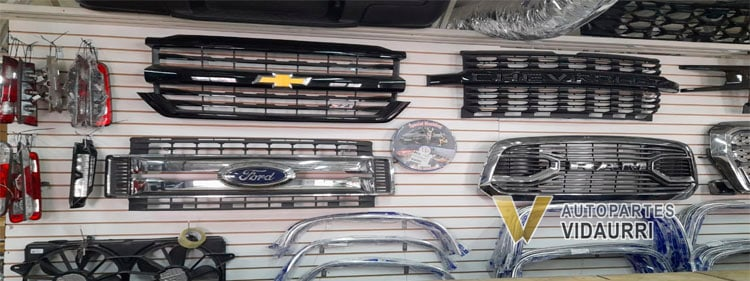
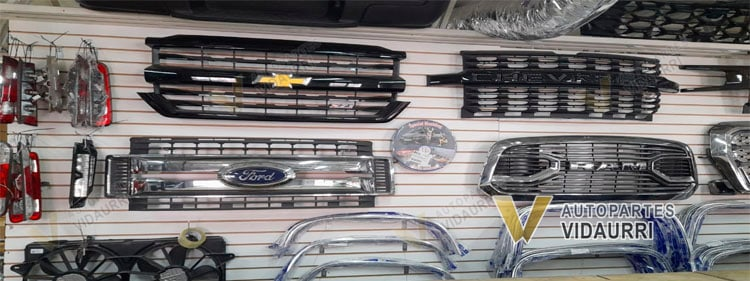
feat: mosaico de marca de agua sobre toda la foto
El sello de esquina solo protegía de la esquina: quien roba una foto la
recorta y listo. Ahora son dos capas con oficios distintos.

- MOSAICO: el lockup repetido en diagonal (-30°) por toda la superficie, al
  16% de opacidad. Es el que hace inservible la foto robada, porque quitarlo
  obliga a borrarlo sobre la mercancía misma, no a recortar un borde.
- ESQUINA inferior derecha: se mantiene con cuerpo (74%), que es la que se
  lee de un vistazo y dice de quién es el negocio.

Detalles que costaron un par de vueltas y quedan anotados en el código:
- El azulejo lleva DOS logos en diagonal, no uno. Con uno solo el patrón sale
  en rejilla alineada y deja pasillos limpios entre columnas — justo por donde
  se recorta una foto.
- `rotate()` va sobre un buffer ya cerrado: encadenado al resize, sharp
  reordena las operaciones y el giro no se aplicaba.
- sharp NO acumula composite() encadenados: el segundo reemplaza al primero.
  Encadenarlos dejaba la trama completamente vacía.

Cuesta ~2 ms más que la versión de una capa (11-16 ms por foto, contra los
300-500 ms que tarda la red en traerla del origen).

diff --git a/src/lib/marca-agua.ts b/src/lib/marca-agua.ts
@@ -1,4 +1,4 @@
-import sharp from "sharp";
+import sharp, { type OverlayOptions } from "sharp";
 import { readFile } from "node:fs/promises";
 import { join } from "node:path";
 
@@ -6,6 +6,13 @@ import { join } from "node:path";
 // nuevas, las de la Bodega Usado y las que el Vendedor IA manda por WhatsApp.
 // Una foto de la bodega circula por grupos de Facebook y cotizadores ajenos en
 // cuestión de horas; con el sello encima sigue diciendo de quién es la pieza.
+//
+// Son DOS capas con oficios distintos:
+//   1. El MOSAICO: el lockup repetido en diagonal por toda la foto, muy tenue.
+//      Es el que hace inservible la foto robada — recortar la esquina no lo
+//      quita, habría que borrarlo pieza por pieza sobre la mercancía misma.
+//   2. La ESQUINA inferior derecha, con cuerpo: la que se lee de un vistazo y
+//      dice de quién es el negocio.
 //
 // El precio de esto es que la foto ya NO puede ir en flujo: hay que tenerla
 // entera en memoria para componerla. Por eso las rutas que lo usan cachean
@@ -17,9 +24,9 @@ import { join } from "node:path";
 
 const RUTA_MARCA = join(process.cwd(), "public", "marca-agua.png");
 
-/** Ancho del sello respecto al de la foto. Abajo del 26% el lockup deja de
- *  leerse en un celular; arriba del 40% empieza a tapar la pieza, que es lo
- *  que el cliente vino a ver. */
+/** Ancho del sello de esquina respecto al de la foto. Abajo del 26% el lockup
+ *  deja de leerse en un celular; arriba del 40% empieza a tapar la pieza, que
+ *  es lo que el cliente vino a ver. */
 const PROPORCION = 0.32;
 /** Igual que arriba pero para fotos chicas: proporcionalmente necesitan más
  *  sello para que "VIDAURRI" siga siendo una palabra y no una mancha gris. */
@@ -29,8 +36,20 @@ const ANCHO_CHICO = 400;
 /** Separación del filo, en proporción al ancho. */
 const MARGEN = 0.03;
 
-/** Opacidad del sello: se tiene que leer sin comerse la pieza. */
+/** Opacidad del sello de esquina: se tiene que leer sin comerse la pieza. */
 const OPACIDAD = 0.74;
+
+/** Ancho de cada logo del mosaico, en proporción al de la foto. Más chico
+ *  entran más, pero por debajo de ~0.18 el lockup deja de reconocerse y la
+ *  trama pasa a ser sucio en vez de marca. */
+const MOSAICO_ANCHO = 0.22;
+/** Aire entre logos del mosaico, en proporción al logo. */
+const MOSAICO_SEPARACION = 0.1;
+/** Muy tenue A PROPÓSITO: tiene que estorbar a quien roba la foto, no a quien
+ *  viene a ver la pieza. Subirlo de ~0.2 y el catálogo empieza a verse sucio. */
+const MOSAICO_OPACIDAD = 0.16;
+/** En diagonal: cuesta más de recortar o de tapar con un parche recto. */
+const MOSAICO_GRADOS = -30;
 
 /** Debajo de esto ni la V se distingue: el sello sería una mancha que ensucia
  *  la foto sin proteger nada. Solo cae aquí el muro decorativo del hero. */
@@ -40,6 +59,20 @@ const MINIMO_UTIL = 110;
  *  si aparece uno, pasa sin sellar antes que tumbar el proceso. */
 const MAXIMO_BYTES = 12 * 1024 * 1024;
 
+const TRANSPARENTE = { r: 0, g: 0, b: 0, alpha: 0 };
+
+/** Capa de alfa uniforme: `dest-in` multiplica el alfa que ya trae el PNG por
+ *  este valor, así el sello se transparenta entero sin perder el degradado del
+ *  oro ni el contorno blanco. */
+function velo(opacidad: number): OverlayOptions {
+  return {
+    input: Buffer.from([0, 0, 0, Math.round(opacidad * 255)]),
+    raw: { width: 1, height: 1, channels: 4 },
+    tile: true,
+    blend: "dest-in",
+  };
+}
+
 /** El PNG del sello se lee del disco una sola vez por proceso. */
 let marcaOriginal: Promise<Buffer> | null = null;
 function cargarMarca(): Promise<Buffer> {
@@ -47,37 +80,78 @@ function cargarMarca(): Promise<Buffer> {
   return marcaOriginal;
 }
 
-/** Sellos ya escalados y con su alfa aplicado, por ancho en píxeles. Escalar el
- *  PNG en cada foto de la parrilla sería repetir el mismo trabajo 24 veces. */
-const escalados = new Map<number, Promise<Buffer>>();
+/** Piezas ya preparadas, por ancho en píxeles. Rearmarlas en cada foto de la
+ *  parrilla sería repetir el mismo trabajo 24 veces. */
+const sellosEsquina = new Map<number, Promise<Buffer>>();
+const azulejos = new Map<number, Promise<Buffer>>();
 
-function marcaEscalada(ancho: number): Promise<Buffer> {
-  const cacheado = escalados.get(ancho);
+function selloEsquina(ancho: number): Promise<Buffer> {
+  const cacheado = sellosEsquina.get(ancho);
   if (cacheado) return cacheado;
 
   const tarea = cargarMarca().then((png) =>
-    sharp(png)
-      .resize({ width: ancho })
-      // `dest-in` multiplica el alfa que ya trae el PNG por este valor uniforme,
-      // así el sello se transparenta entero sin perder el degradado del oro.
-      .composite([
-        {
-          input: Buffer.from([0, 0, 0, Math.round(OPACIDAD * 255)]),
-          raw: { width: 1, height: 1, channels: 4 },
-          tile: true,
-          blend: "dest-in",
-        },
-      ])
-      .png()
-      .toBuffer()
+    sharp(png).resize({ width: ancho }).composite([velo(OPACIDAD)]).png().toBuffer()
   );
-
-  escalados.set(ancho, tarea);
+  sellosEsquina.set(ancho, tarea);
   return tarea;
 }
 
 /**
- * Estampa el sello de la casa en la esquina inferior derecha.
+ * Azulejo del mosaico: lleva DOS logos en diagonal dentro de la celda, de modo
+ * que al repetirse las filas quedan escalonadas como ladrillos. Con un solo
+ * logo por azulejo el patrón sale en rejilla alineada y deja pasillos limpios
+ * entre columnas — justo por donde se recorta una foto para robarla.
+ */
+function azulejoMosaico(anchoLogo: number): Promise<Buffer> {
+  const cacheado = azulejos.get(anchoLogo);
+  if (cacheado) return cacheado;
+
+  const tarea = (async () => {
+    const png = await cargarMarca();
+    // La rotación va sobre un buffer YA cerrado: encadenada al resize, sharp
+    // reordena las operaciones y el giro no siempre se aplica.
+    const chico = await sharp(png).resize({ width: anchoLogo }).png().toBuffer();
+    const logo = await sharp(chico)
+      .rotate(MOSAICO_GRADOS, { background: TRANSPARENTE })
+      .png()
+      .toBuffer();
+
+    const { width = anchoLogo, height = anchoLogo } = await sharp(logo).metadata();
+    const aireX = Math.round(width * MOSAICO_SEPARACION);
+    const aireY = Math.round(height * MOSAICO_SEPARACION);
+    const celdaAncho = width + aireX;
+    const celdaAlto = height + aireY;
+
+    const trama = await sharp({
+      create: {
+        width: celdaAncho * 2,
+        height: celdaAlto * 2,
+        channels: 4,
+        background: TRANSPARENTE,
+      },
+    })
+      .composite([
+        { input: logo, top: Math.round(aireY / 2), left: Math.round(aireX / 2) },
+        {
+          input: logo,
+          top: celdaAlto + Math.round(aireY / 2),
+          left: celdaAncho + Math.round(aireX / 2),
+        },
+      ])
+      .png()
+      .toBuffer();
+
+    // Segunda pasada para el velo: sharp NO acumula composite() encadenados,
+    // el segundo reemplaza al primero y la trama saldría vacía.
+    return sharp(trama).composite([velo(MOSAICO_OPACIDAD)]).png().toBuffer();
+  })();
+
+  azulejos.set(anchoLogo, tarea);
+  return tarea;
+}
+
+/**
+ * Estampa el mosaico y el sello de esquina.
  *
  * Devuelve `null` cuando la foto debe servirse tal cual (no es imagen, es
  * demasiado grande o demasiado chica para que el sello signifique algo) y
@@ -103,21 +177,28 @@ export async function estamparMarca(entrada: Buffer): Promise<Buffer | null> {
     // pasa intacto.
     if (format === "gif" || format === "svg") return null;
 
-    const anchoSello = Math.round(
+    const anchoEsquina = Math.round(
       width * (width < ANCHO_CHICO ? PROPORCION_CHICA : PROPORCION)
     );
-    const sello = await marcaEscalada(anchoSello);
+    const [azulejo, sello] = await Promise.all([
+      azulejoMosaico(Math.round(width * MOSAICO_ANCHO)),
+      selloEsquina(anchoEsquina),
+    ]);
     const { height: altoSello = 0 } = await sharp(sello).metadata();
 
     const margen = Math.round(width * MARGEN);
-    // Si la foto es más ancha que alta por muy poco, el sello podría no caber
-    // a lo alto: se ancla en 0 antes que dejar que sharp reviente por un
-    // `top` negativo.
+    // Si el sello no cabe a lo alto se ancla en 0 antes que dejar que sharp
+    // reviente por un `top` negativo.
     const top = Math.max(0, height - altoSello - margen);
-    const left = Math.max(0, width - anchoSello - margen);
+    const left = Math.max(0, width - anchoEsquina - margen);
 
+    // Las dos capas en UN composite y en este orden: el mosaico cubre la foto y
+    // el sello de esquina va encima, para que no se lo coma la trama.
     return await foto
-      .composite([{ input: sello, top, left }])
+      .composite([
+        { input: azulejo, tile: true, blend: "over" },
+        { input: sello, top, left },
+      ])
       .toBuffer();
   } catch (error) {
     console.error("[marca-agua] no se pudo sellar la foto:", error);

diff --git a/CLAUDE.md b/CLAUDE.md
@@ -100,10 +100,12 @@ conversación: "Respondemos en minutos en horario hábil" o "El asistente cotiza
   `QrWhatsApp` (solo desktop: `hidden md:block` en el padre), `SelectorVehiculo`
   (marca→modelo→año→tipo; navega a `/refacciones/...`), `LogoAV`, `IconWhatsApp`.
 - `src/lib/marca-agua.ts` — `estamparMarca(buffer)` / `sellarRespuesta(res)`:
-  estampa el lockup de la casa (`public/marca-agua.png`) abajo a la derecha de
-  TODA foto de pieza. Cuesta ~10-14 ms; devuelve `null` (y loguea) cuando algo
-  falla, y el llamador sirve el original: una foto sin sello es mejor que una
-  pieza sin foto. **Tiene un gemelo idéntico en `vidaurri-ia/src/lib/`: si
+  estampa el lockup de la casa (`public/marca-agua.png`) en TODA foto de pieza,
+  en dos capas: un **mosaico** diagonal muy tenue que cubre la foto entera (el
+  que hace inservible la foto robada: recortar no lo quita) y el **sello de
+  esquina** inferior derecha con cuerpo (el que se lee de un vistazo). Cuesta
+  ~11-16 ms; devuelve `null` (y loguea) cuando algo falla, y el llamador sirve
+  el original: una foto sin sello es mejor que una pieza sin foto. **Tiene un gemelo idéntico en `vidaurri-ia/src/lib/`: si
   cambias uno, cambia el otro**, o el mismo producto sale marcado distinto en
   WhatsApp que en la web. El PNG se regenera con `scripts/generar-marca-agua.mjs`.
 - API: `/api/foto?codigo=&thumb=1` (fotos nuevas), `/api/usadas/foto?n=`
